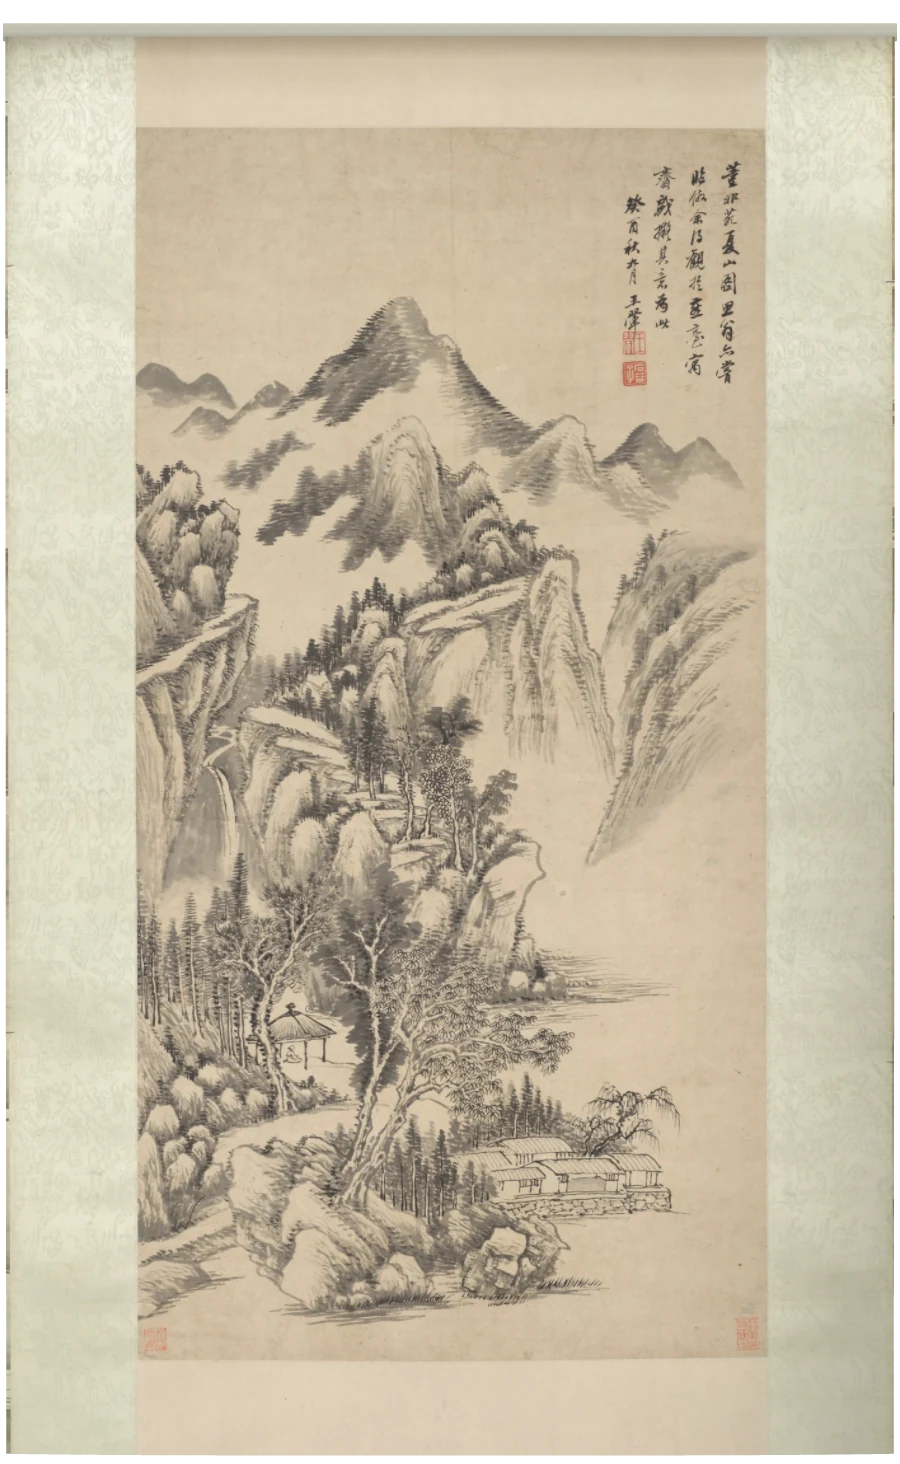
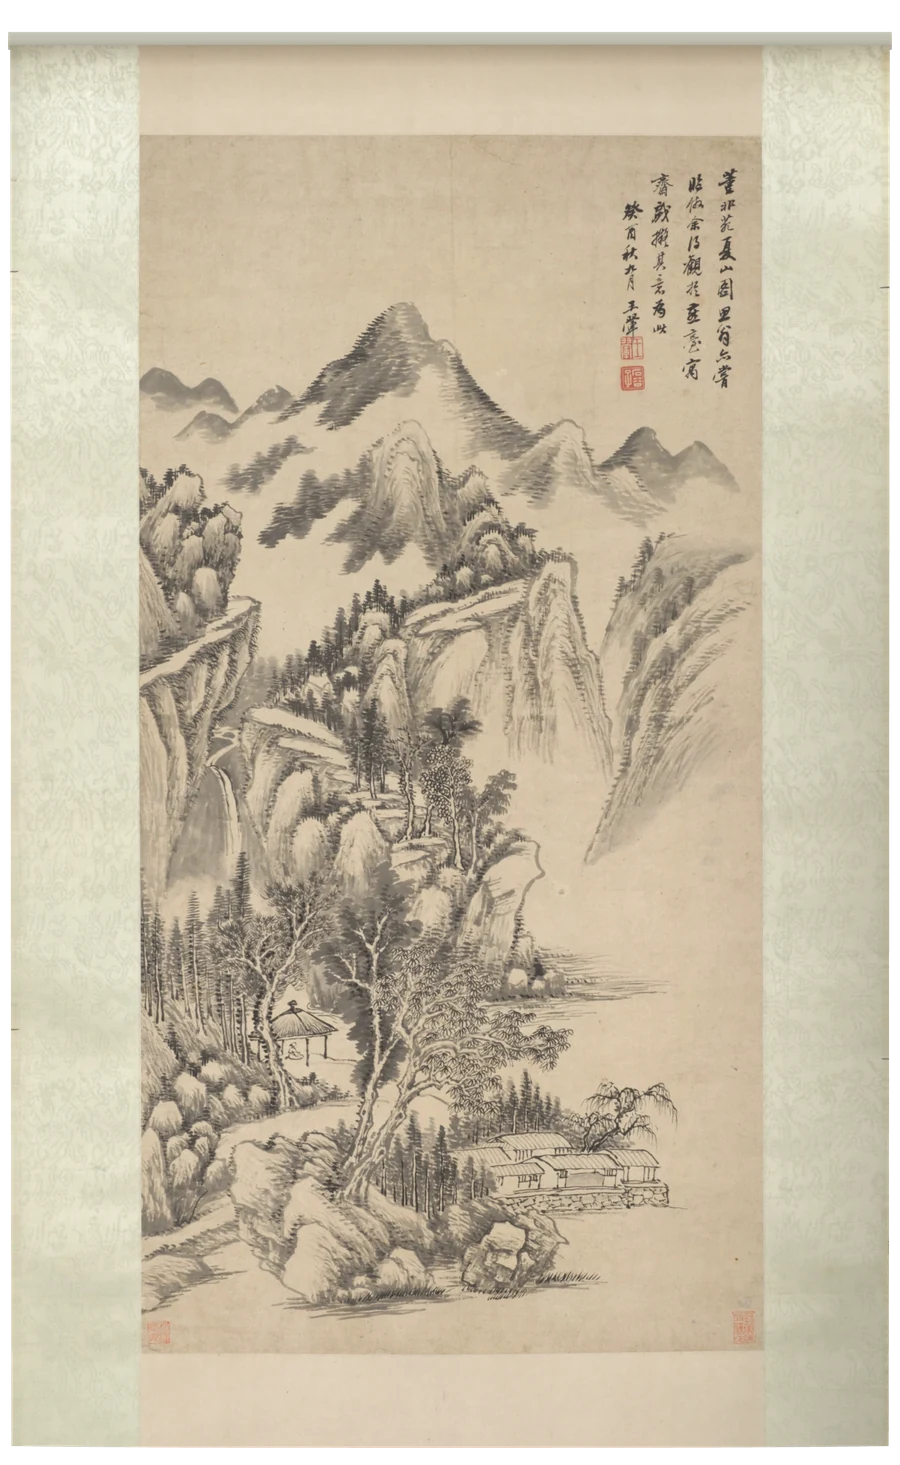
挂画边缘改用投影塑形，修掉灰色渐隐与暗竖条

diff --git a/scripts/bake-scroll/scene.js b/scripts/bake-scroll/scene.js
@@ -152,12 +152,16 @@ function sheetTexture(img) {
   ctx.drawImage(img, 0, 0);
 
   /*
-   * The Met photographs are flatbed scans, and both of them carry 1-4 px of
+   * The Met photographs are flatbed scans, and both carry a few pixels of
    * near-black sliver along the left (and, on wanghui, the right) edge where
-   * the mount ran past the scanner glass. Stretched over a 377px-wide scroll
-   * that sliver becomes a hard drawn-looking border, which is the "framed
-   * poster" tell. Replicate the interior colour outward across those pixels
-   * before anything else touches the image.
+   * the mount ran past the scanner glass. Left alone, that sliver becomes a
+   * hard drawn-looking border at display size.
+   *
+   * The colour used to fill it has to come from *settled* silk, not from the
+   * first pixel that passes a brightness test — that one is still on the edge
+   * of the dark band, and copying it left a grey stripe down the side that
+   * looked exactly like a cheap gradient. So: find where the scan first
+   * leaves the sliver, step a few pixels further in, and average a short run.
    */
   const probe = ctx.getImageData(0, 0, W0, H0);
   const px = probe.data;
@@ -165,26 +169,34 @@ function sheetTexture(img) {
     const i = (y * W0 + x) * 4;
     return 0.2126 * px[i] + 0.7152 * px[i + 1] + 0.0722 * px[i + 2];
   };
-  const EDGE = 12;
+  const meanRun = (x0, x1, y) => {
+    let r = 0, g = 0, b = 0, n = 0;
+    for (let x = Math.max(0, x0); x <= Math.min(W0 - 1, x1); x++) {
+      const i = (y * W0 + x) * 4;
+      r += px[i]; g += px[i + 1]; b += px[i + 2]; n++;
+    }
+    return [r / n, g / n, b / n];
+  };
+  const EDGE = 16;
   for (let y = 0; y < H0; y++) {
     /* left */
     let x = 0;
     while (x < EDGE && lumAt(x, y) < 120) x++;
     if (x > 0 && x < EDGE) {
-      const s = (y * W0 + x) * 4;
-      for (let k = 0; k < x; k++) {
+      const [r, g, b] = meanRun(x + 3, x + 8, y);
+      for (let k = 0; k < x + 3; k++) {
         const d = (y * W0 + k) * 4;
-        px[d] = px[s]; px[d + 1] = px[s + 1]; px[d + 2] = px[s + 2]; px[d + 3] = 255;
+        px[d] = r; px[d + 1] = g; px[d + 2] = b; px[d + 3] = 255;
       }
     }
     /* right */
     let xr = W0 - 1;
     while (xr > W0 - EDGE && lumAt(xr, y) < 120) xr--;
     if (xr < W0 - 1) {
-      const s = (y * W0 + xr) * 4;
-      for (let k = xr + 1; k < W0; k++) {
+      const [r, g, b] = meanRun(xr - 8, xr - 3, y);
+      for (let k = xr - 3; k < W0; k++) {
         const d = (y * W0 + k) * 4;
-        px[d] = px[s]; px[d + 1] = px[s + 1]; px[d + 2] = px[s + 2]; px[d + 3] = 255;
+        px[d] = r; px[d + 1] = g; px[d + 2] = b; px[d + 3] = 255;
       }
     }
   }
@@ -216,11 +228,18 @@ function sheetTexture(img) {
       for (let x = 0; x < W; x++) {
         const u = x / W;
 
-        /* central difference in the two tangent directions */
-        const dzdu = (sheetDisplacement(Math.min(1, u + stepU), v) -
-                      sheetDisplacement(Math.max(0, u - stepU), v)) / (2 * stepU);
-        const dzdv = (sheetDisplacement(u, Math.min(1, v + stepV)) -
-                      sheetDisplacement(u, Math.max(0, v - stepV))) / (2 * stepV);
+        /*
+         * Central difference in the two tangent directions, with the divisor
+         * following the actual span. Clamping at the border while still
+         * dividing by 2·step halves the span but not the divisor, so the
+         * outermost column reported twice the true slope, its normal leaned
+         * hard, and the bake grew a dark seam down both edges and along the
+         * foot — the "dirty border" that looked like a bad gradient.
+         */
+        const u0 = Math.max(0, u - stepU), u1 = Math.min(1, u + stepU);
+        const v0 = Math.max(0, v - stepV), v1 = Math.min(1, v + stepV);
+        const dzdu = (sheetDisplacement(u1, v) - sheetDisplacement(u0, v)) / (u1 - u0);
+        const dzdv = (sheetDisplacement(u, v1) - sheetDisplacement(u, v0)) / (v1 - v0);
 
         /* For z = z(u,v) over the sheet plane, N ∝ (-z_u, -z_v, 1) scaled by
            the sheet's aspect so the slopes are in comparable units. */
@@ -419,14 +438,14 @@ const spanH = topB - botB;
 const totalW = silkW;
 
 /*
- * Keep the transparent margin to just enough for antialiasing, so the image
- * edge lands on the paper edge. A wide safety margin looks harmless in the
- * bake, but the page fades the outer few percent of the image to blend the
- * mount into the wall — with a 4.5% margin that fade was spent dissolving
- * empty pixels and the paper kept a hard edge.
+ * Enough transparent margin for the sheet's edge to be antialiased. Too
+ * little (~0.6%) put the paper edge on the canvas boundary, so the outermost
+ * row was clipped mid-coverage and the bottom edge came out visibly
+ * stair-stepped. Too much (4.5%) wasted the frame. 1.2% is the point where
+ * the edge has a clean two-or-three pixel ramp and the margins stay tight.
  */
-const padY = spanH * 0.006;
-const padX = totalW * 0.006;
+const padY = spanH * 0.012;
+const padX = totalW * 0.012;
 const needH = spanH + padY * 2;
 const needW = totalW + padX * 2;
 

diff --git a/public/assets/art/README.md b/public/assets/art/README.md
@@ -18,10 +18,16 @@ knobs reads as lacquered plastic long before the eye accepts it, so the mount
 ends in a bare paper edge and lets its own silhouette and cast shadow carry
 the bottom of the composition.
 
-The transparent margin around each mount is kept to ~0.6% so the image edge
-lands on the paper edge. The page fades the outer few percent of the image to
-blend the mount into the wall, and a wide safety margin would spend that fade
-on empty pixels instead of on paper.
+The transparent margin around each mount is kept to 1.2%. Fewer pixels put the
+paper edge on the canvas boundary, where the outermost row got clipped
+mid-coverage and the bottom edge came out stair-stepped; more wasted the
+frame. The bake is also supersampled 2× and downsampled with Lanczos, so the
+curved silhouette has real coverage levels to interpolate from.
+
+The page does not fade the mount into the wall. It tried, and blending paper
+through alpha pulls it toward the backdrop — on the dark theme the scrolls
+grew a grey halo and the paper looked dirty. Depth comes from layered
+drop-shadows instead, so the paper keeps its own colour right to its edge.
 
 The mount itself is *not* relit. Its photograph already carries gallery light
 that is correct for silk, and pushing it through the scene key clipped the
